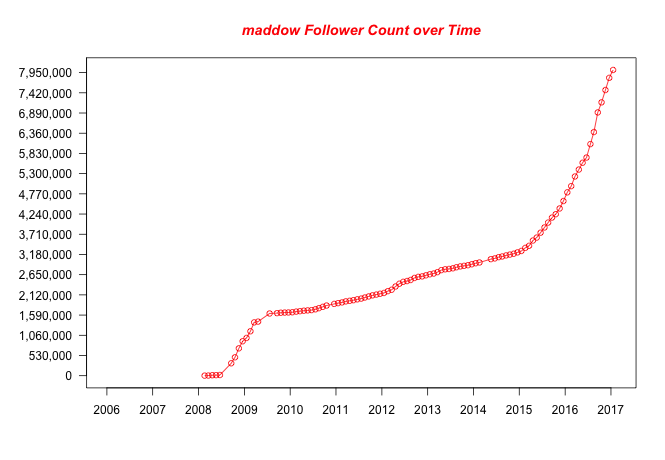
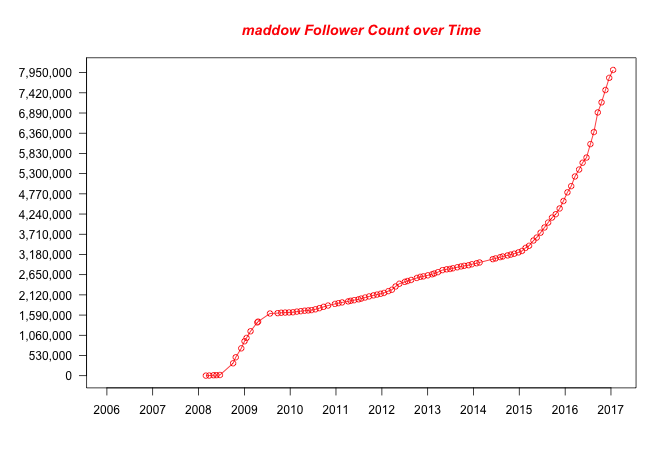
One click run everything with accurate days
Previously, the days of dates always showed 01 for ease of computing
but upon realizing I can get the real day, incorporated the real day
into the program.

diff --git a/crawler.py b/crawler.py
@@ -94,9 +94,7 @@ with open("test.txt", "r") as f:
 		try:
 			#result = "{:,d}".format(int(result))
 			print(result)
-			day = date[:6]
-			day = '-'.join([day[:4], day[4:6]])
-			day = day + '-01'
+			day = '-'.join([date[:4], date[4:6], date[6:8]])
 			w.write(day + ',' + result + '\n')
 			lastdate = date[:6]
 		except:
